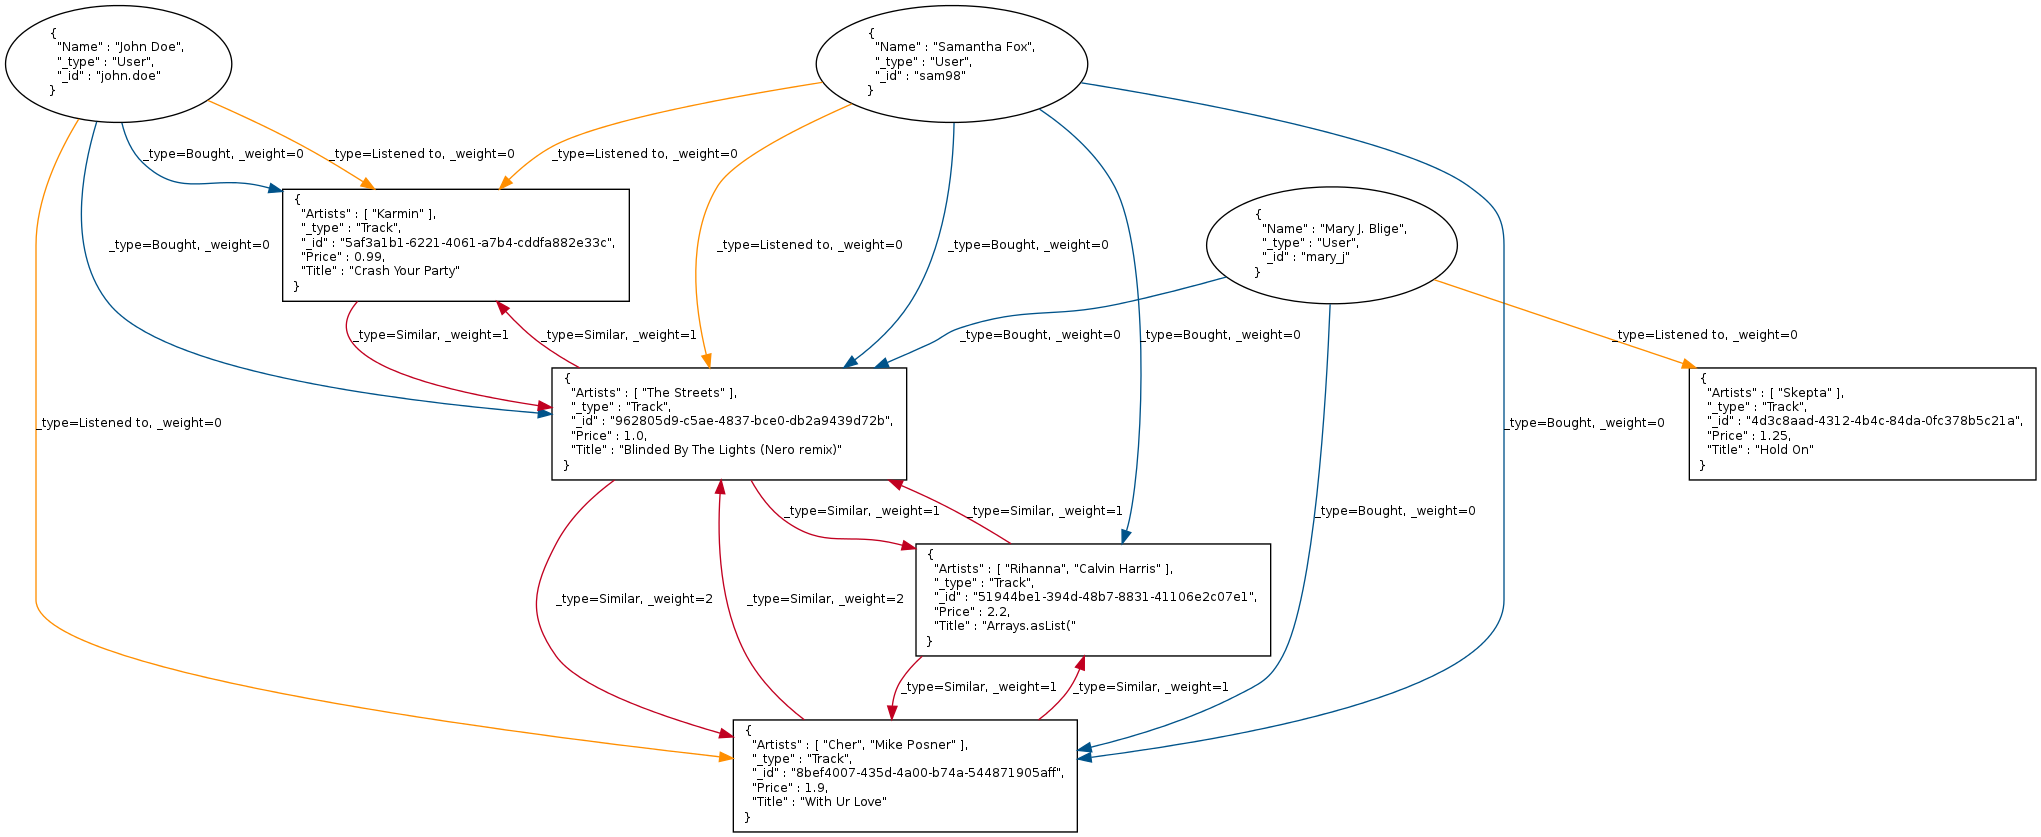
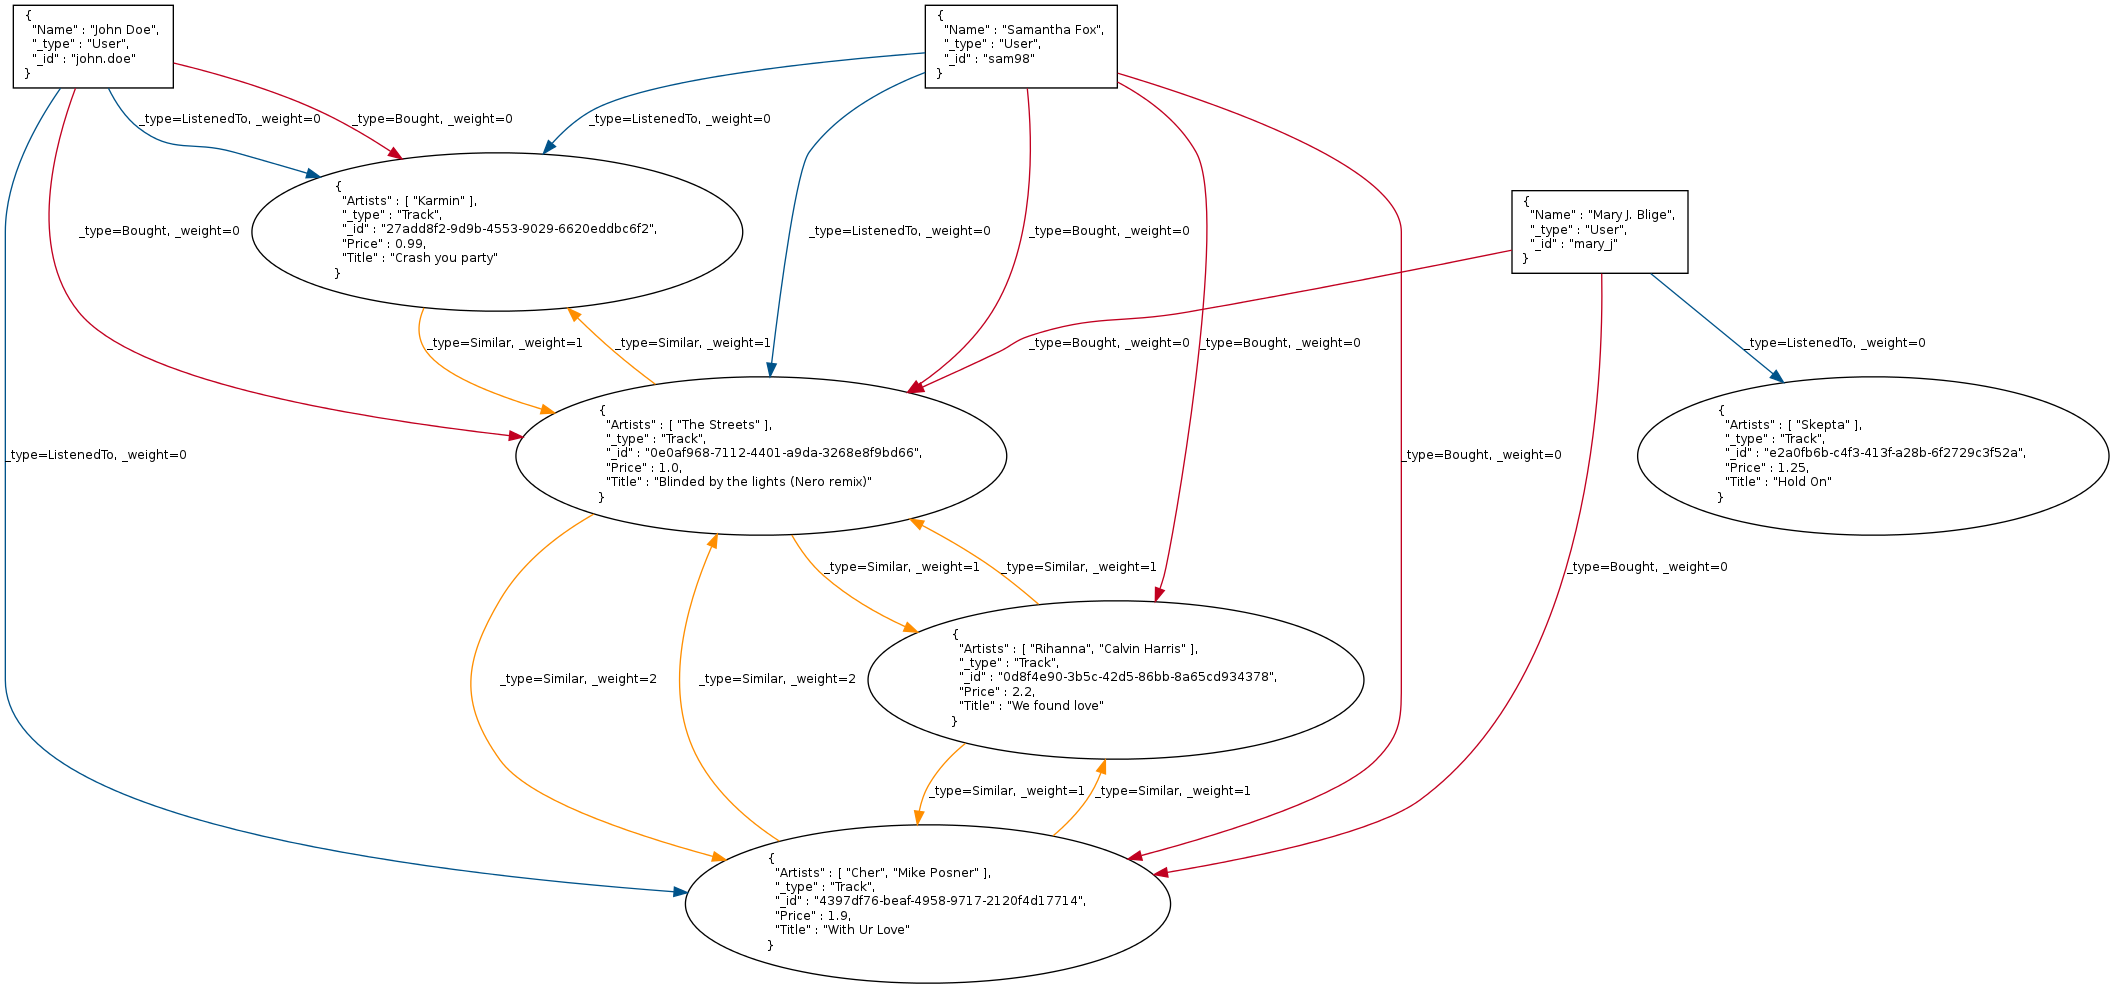
Commit example class and output files.

diff --git a/src/main/java/org/graphit/examples/ExampleGraphBuilder.java b/src/main/java/org/graphit/examples/ExampleGraphBuilder.java
@@ -1,0 +1,137 @@
+/*
+ * Copyright 2012 Jon Ivmark
+ *
+ * Licensed under the Apache License, Version 2.0 (the "License");
+ * you may not use this file except in compliance with the License.
+ * You may obtain a copy of the License at
+ *
+ *      http://www.apache.org/licenses/LICENSE-2.0
+ *
+ * Unless required by applicable law or agreed to in writing, software
+ * distributed under the License is distributed on an "AS IS" BASIS,
+ * WITHOUT WARRANTIES OR CONDITIONS OF ANY KIND, either express or implied.
+ * See the License for the specific language governing permissions and
+ * limitations under the License.
+ */
+
+package org.graphit.examples;
+
+import java.io.File;
+import java.io.IOException;
+import java.util.Arrays;
+import java.util.List;
+import java.util.UUID;
+
+import org.graphit.graph.edge.schema.EdgeSortOrder;
+import org.graphit.graph.edge.schema.EdgeType;
+import org.graphit.graph.edge.schema.EdgeTypeImpl;
+import org.graphit.graph.node.domain.Node;
+import org.graphit.graph.node.domain.NodeId;
+import org.graphit.graph.node.schema.NodeType;
+import org.graphit.graph.node.schema.NodeTypeImpl;
+import org.graphit.graph.schema.GraphMetadata;
+import org.graphit.graph.service.PropertyGraph;
+import org.graphit.graph.service.PropertyGraphDotExporter;
+import org.graphit.graph.service.PropertyGraphImpl;
+import org.graphit.graph.service.PropertyGraphJsonUtils;
+
+/**
+ * Some examples using tinkerpop.
+ *
+ * @author jon
+ *
+ */
+public class ExampleGraphBuilder {
+
+    private static final NodeType USER = new NodeTypeImpl("User");
+    private static final NodeType TRACK = new NodeTypeImpl("Track");
+    private static final EdgeType BOUGHT = new EdgeTypeImpl("Bought");
+    private static final EdgeType LISTENED_TO = new EdgeTypeImpl("ListenedTo");
+    private static final EdgeType SIMILAR = new EdgeTypeImpl("Similar",
+                                                             EdgeSortOrder.DESCENDING_WEIGHT);
+
+    private PropertyGraph createGraph() {
+        PropertyGraph graph = new PropertyGraphImpl();
+        graph.setGraphName("Music store");
+        GraphMetadata metadata = graph.getMetadata();
+        metadata.addNodeType(USER);
+        metadata.addNodeType(TRACK);
+        metadata.addEdgeType(BOUGHT);
+        metadata.addEdgeType(LISTENED_TO);
+        metadata.addEdgeType(SIMILAR);
+
+        Node john = createUser(graph, "john.doe", "John Doe");
+        Node sam = createUser(graph, "sam98", "Samantha Fox");
+        Node mary = createUser(graph, "mary_j", "Mary J. Blige");
+
+        Node karmin = createTrack(graph, UUID.randomUUID().toString(),
+                                  Arrays.asList("Karmin"), "Crash you party", 0.99);
+        Node theStreets =
+            createTrack(graph, UUID.randomUUID().toString(),
+                        Arrays.asList("The Streets"), "Blinded by the lights (Nero remix)", 1d);
+        Node rihanna = createTrack(graph, UUID.randomUUID().toString(),
+                                   Arrays.asList("Rihanna", "Calvin Harris"), "We found love", 2.2);
+        Node cher = createTrack(graph, UUID.randomUUID().toString(),
+                                Arrays.asList("Cher", "Mike Posner"), "With Ur Love", 1.9);
+        Node skepta = createTrack(graph, UUID.randomUUID().toString(),
+                                  Arrays.asList("Skepta"), "Hold On", 1.25);
+
+        graph.addEdge(john.getNodeId(), karmin.getNodeId(), BOUGHT);
+        graph.addEdge(john.getNodeId(), theStreets.getNodeId(), BOUGHT);
+        graph.addEdge(sam.getNodeId(), theStreets.getNodeId(), BOUGHT);
+        graph.addEdge(sam.getNodeId(), rihanna.getNodeId(), BOUGHT);
+        graph.addEdge(sam.getNodeId(), cher.getNodeId(), BOUGHT);
+        graph.addEdge(mary.getNodeId(), theStreets.getNodeId(), BOUGHT);
+        graph.addEdge(mary.getNodeId(), cher.getNodeId(), BOUGHT);
+
+        graph.addEdge(john.getNodeId(), karmin.getNodeId(), LISTENED_TO);
+        graph.addEdge(john.getNodeId(), cher.getNodeId(), LISTENED_TO);
+        graph.addEdge(sam.getNodeId(), karmin.getNodeId(), LISTENED_TO);
+        graph.addEdge(sam.getNodeId(), theStreets.getNodeId(), LISTENED_TO);
+        graph.addEdge(mary.getNodeId(), skepta.getNodeId(), LISTENED_TO);
+
+        graph.addEdge(karmin.getNodeId(), theStreets.getNodeId(), SIMILAR, 1);
+        graph.addEdge(theStreets.getNodeId(), karmin.getNodeId(), SIMILAR, 1);
+        graph.addEdge(theStreets.getNodeId(), cher.getNodeId(), SIMILAR, 2);
+        graph.addEdge(cher.getNodeId(), theStreets.getNodeId(), SIMILAR, 2);
+        graph.addEdge(theStreets.getNodeId(), rihanna.getNodeId(), SIMILAR, 1);
+        graph.addEdge(rihanna.getNodeId(), theStreets.getNodeId(), SIMILAR, 1);
+        graph.addEdge(rihanna.getNodeId(), cher.getNodeId(), SIMILAR, 1);
+        graph.addEdge(cher.getNodeId(), rihanna.getNodeId(), SIMILAR, 1);
+
+        return graph;
+    }
+
+    private Node createUser(PropertyGraph graph, String userId, String userName) {
+        Node user = graph.addNode(new NodeId(USER, userId));
+        user.setProperty("Name", userName);
+        graph.setNodeProperties(user.getNodeId(), user);
+        return user;
+    }
+
+    private Node createTrack(PropertyGraph graph, String trackId,
+                             List<String> artists, String title, double price) {
+        Node track = graph.addNode(new NodeId(TRACK, trackId));
+        track.setProperty("Artists", artists);
+        track.setProperty("Title", title);
+        track.setProperty("Price", price);
+        graph.setNodeProperties(track.getNodeId(), track);
+        return track;
+    }
+
+    /**
+     * Main method. The graph will exported to file (as json) using the first
+     * argument as file name, if such an argument is present. It will be
+     * exported in graphviz dot format to a file with the name of argument 2, if
+     * such an argument is present.
+     */
+    public static void main(String[] args) throws IOException {
+        PropertyGraph graph = new ExampleGraphBuilder().createGraph();
+        if (args.length > 0) {
+            PropertyGraphJsonUtils.exportJson(graph, new File(args[0]), true, true);
+        }
+        if (args.length > 1) {
+            new PropertyGraphDotExporter(graph).export(new File(args[1]));
+        }
+    }
+}
